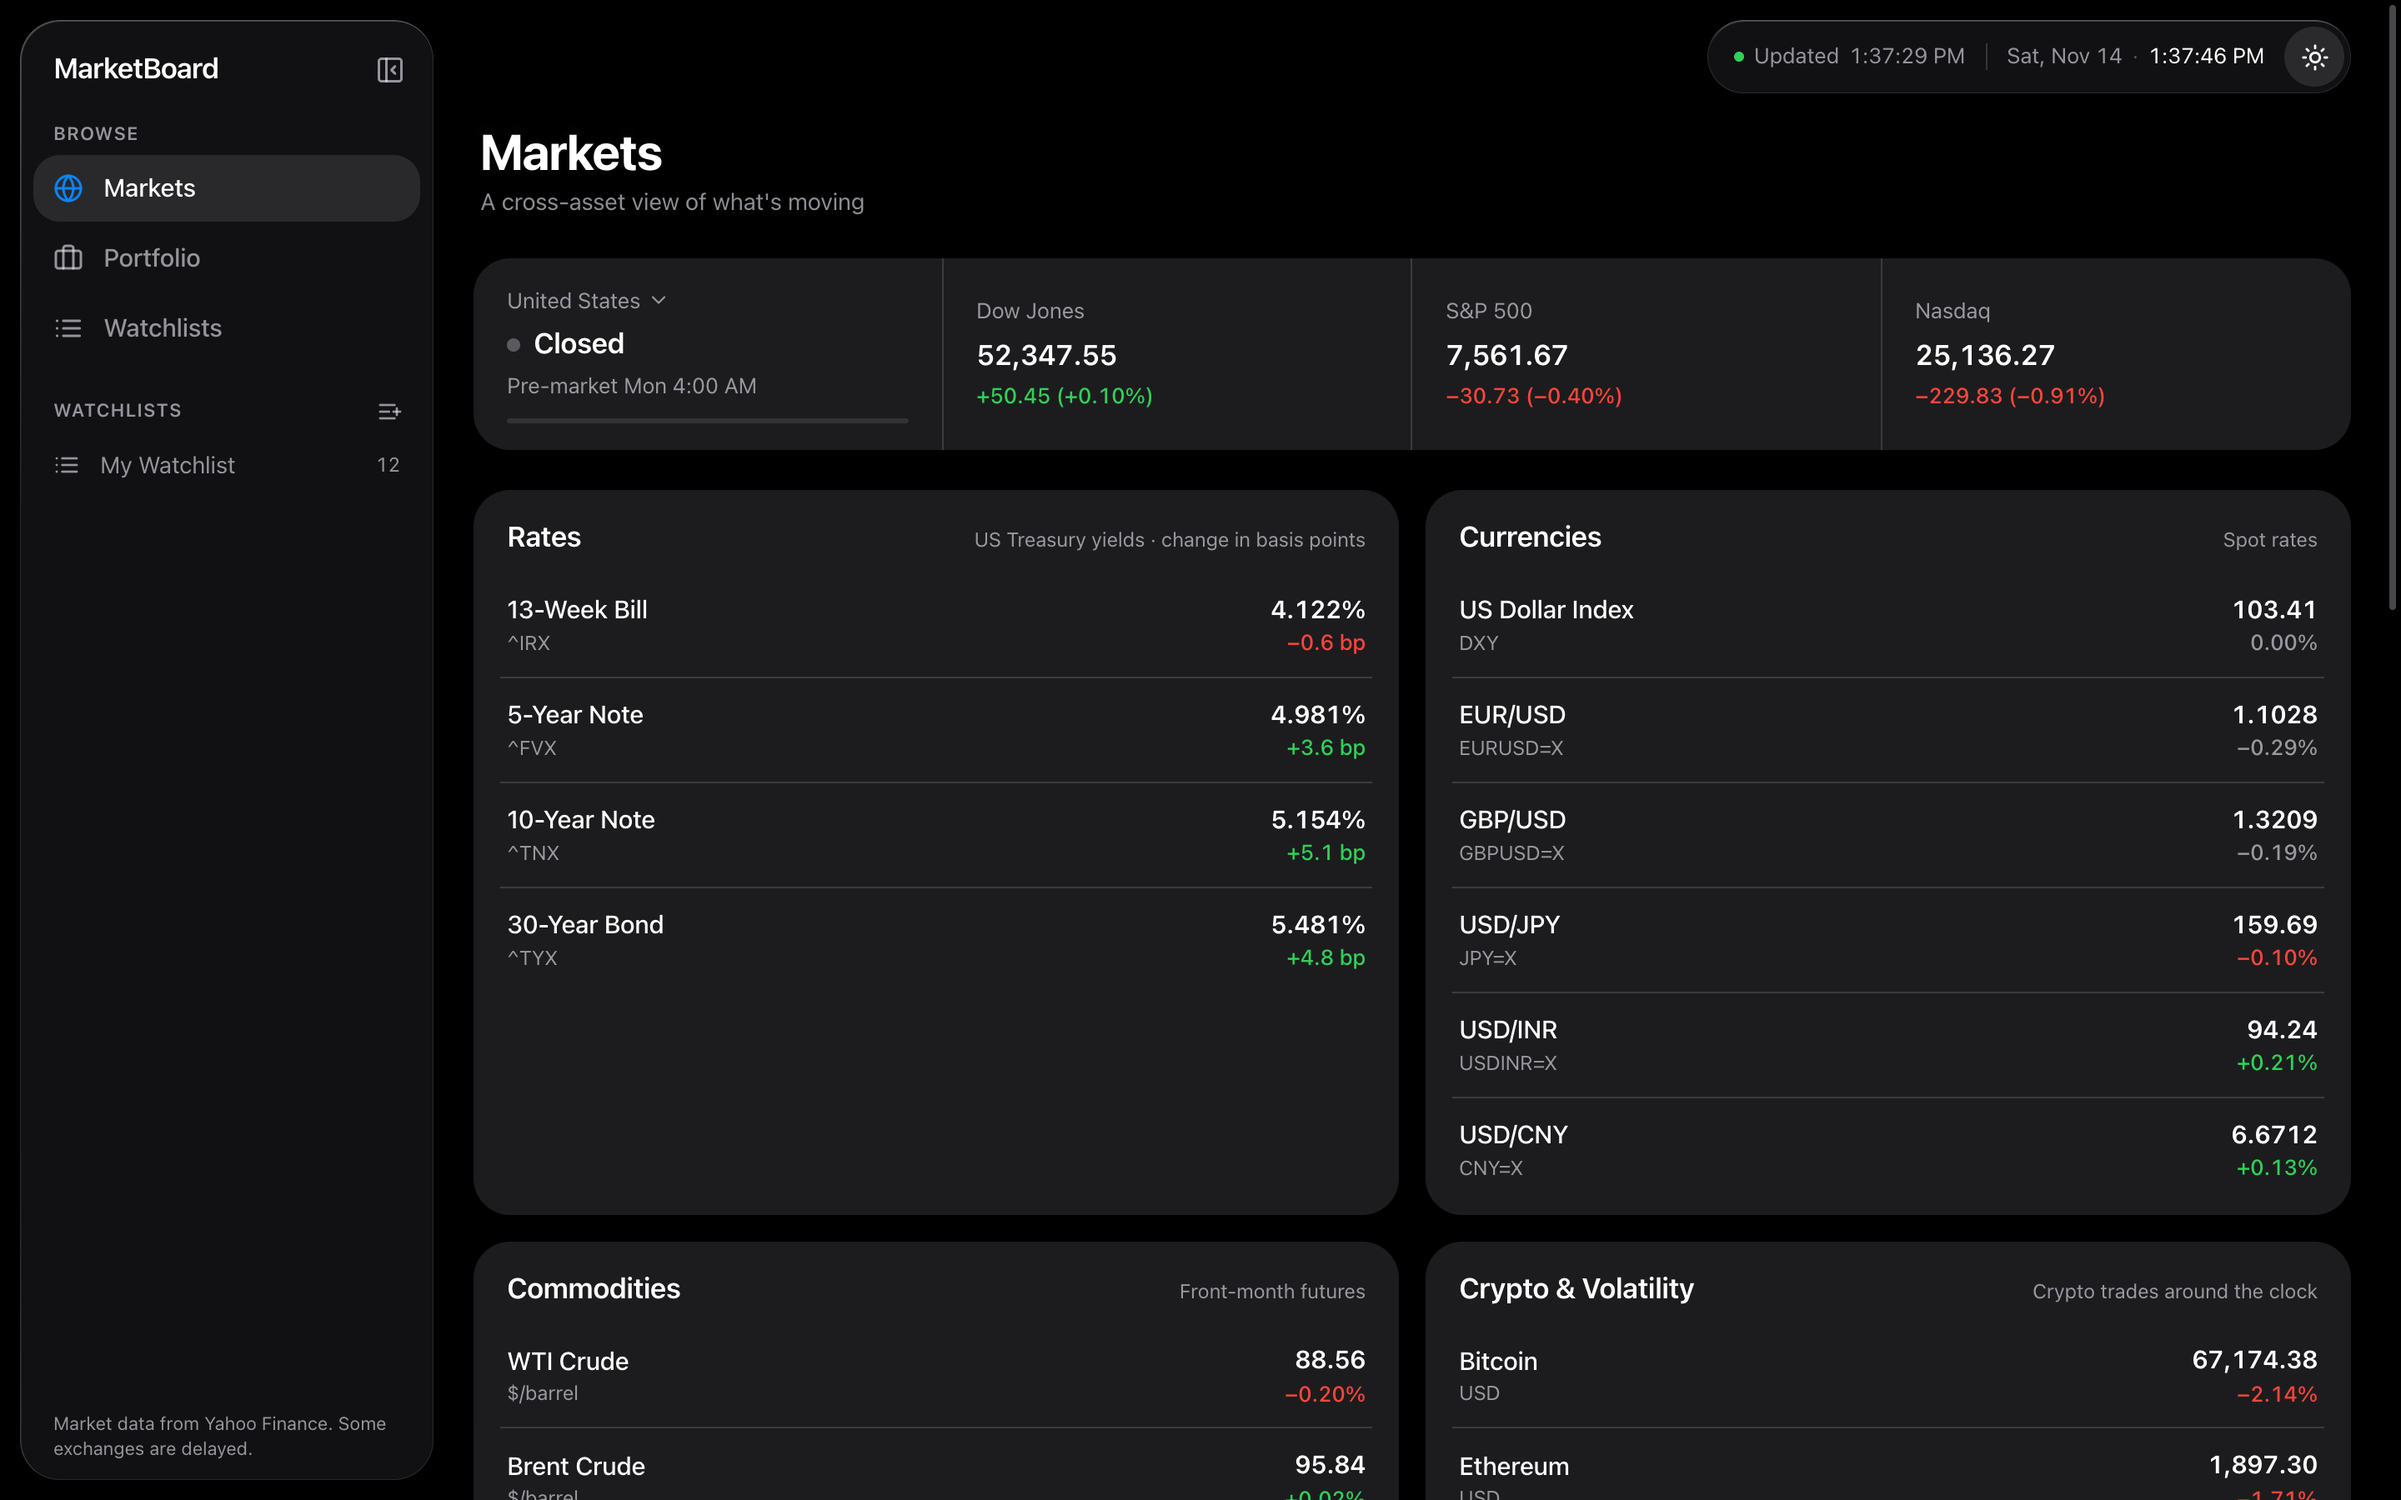
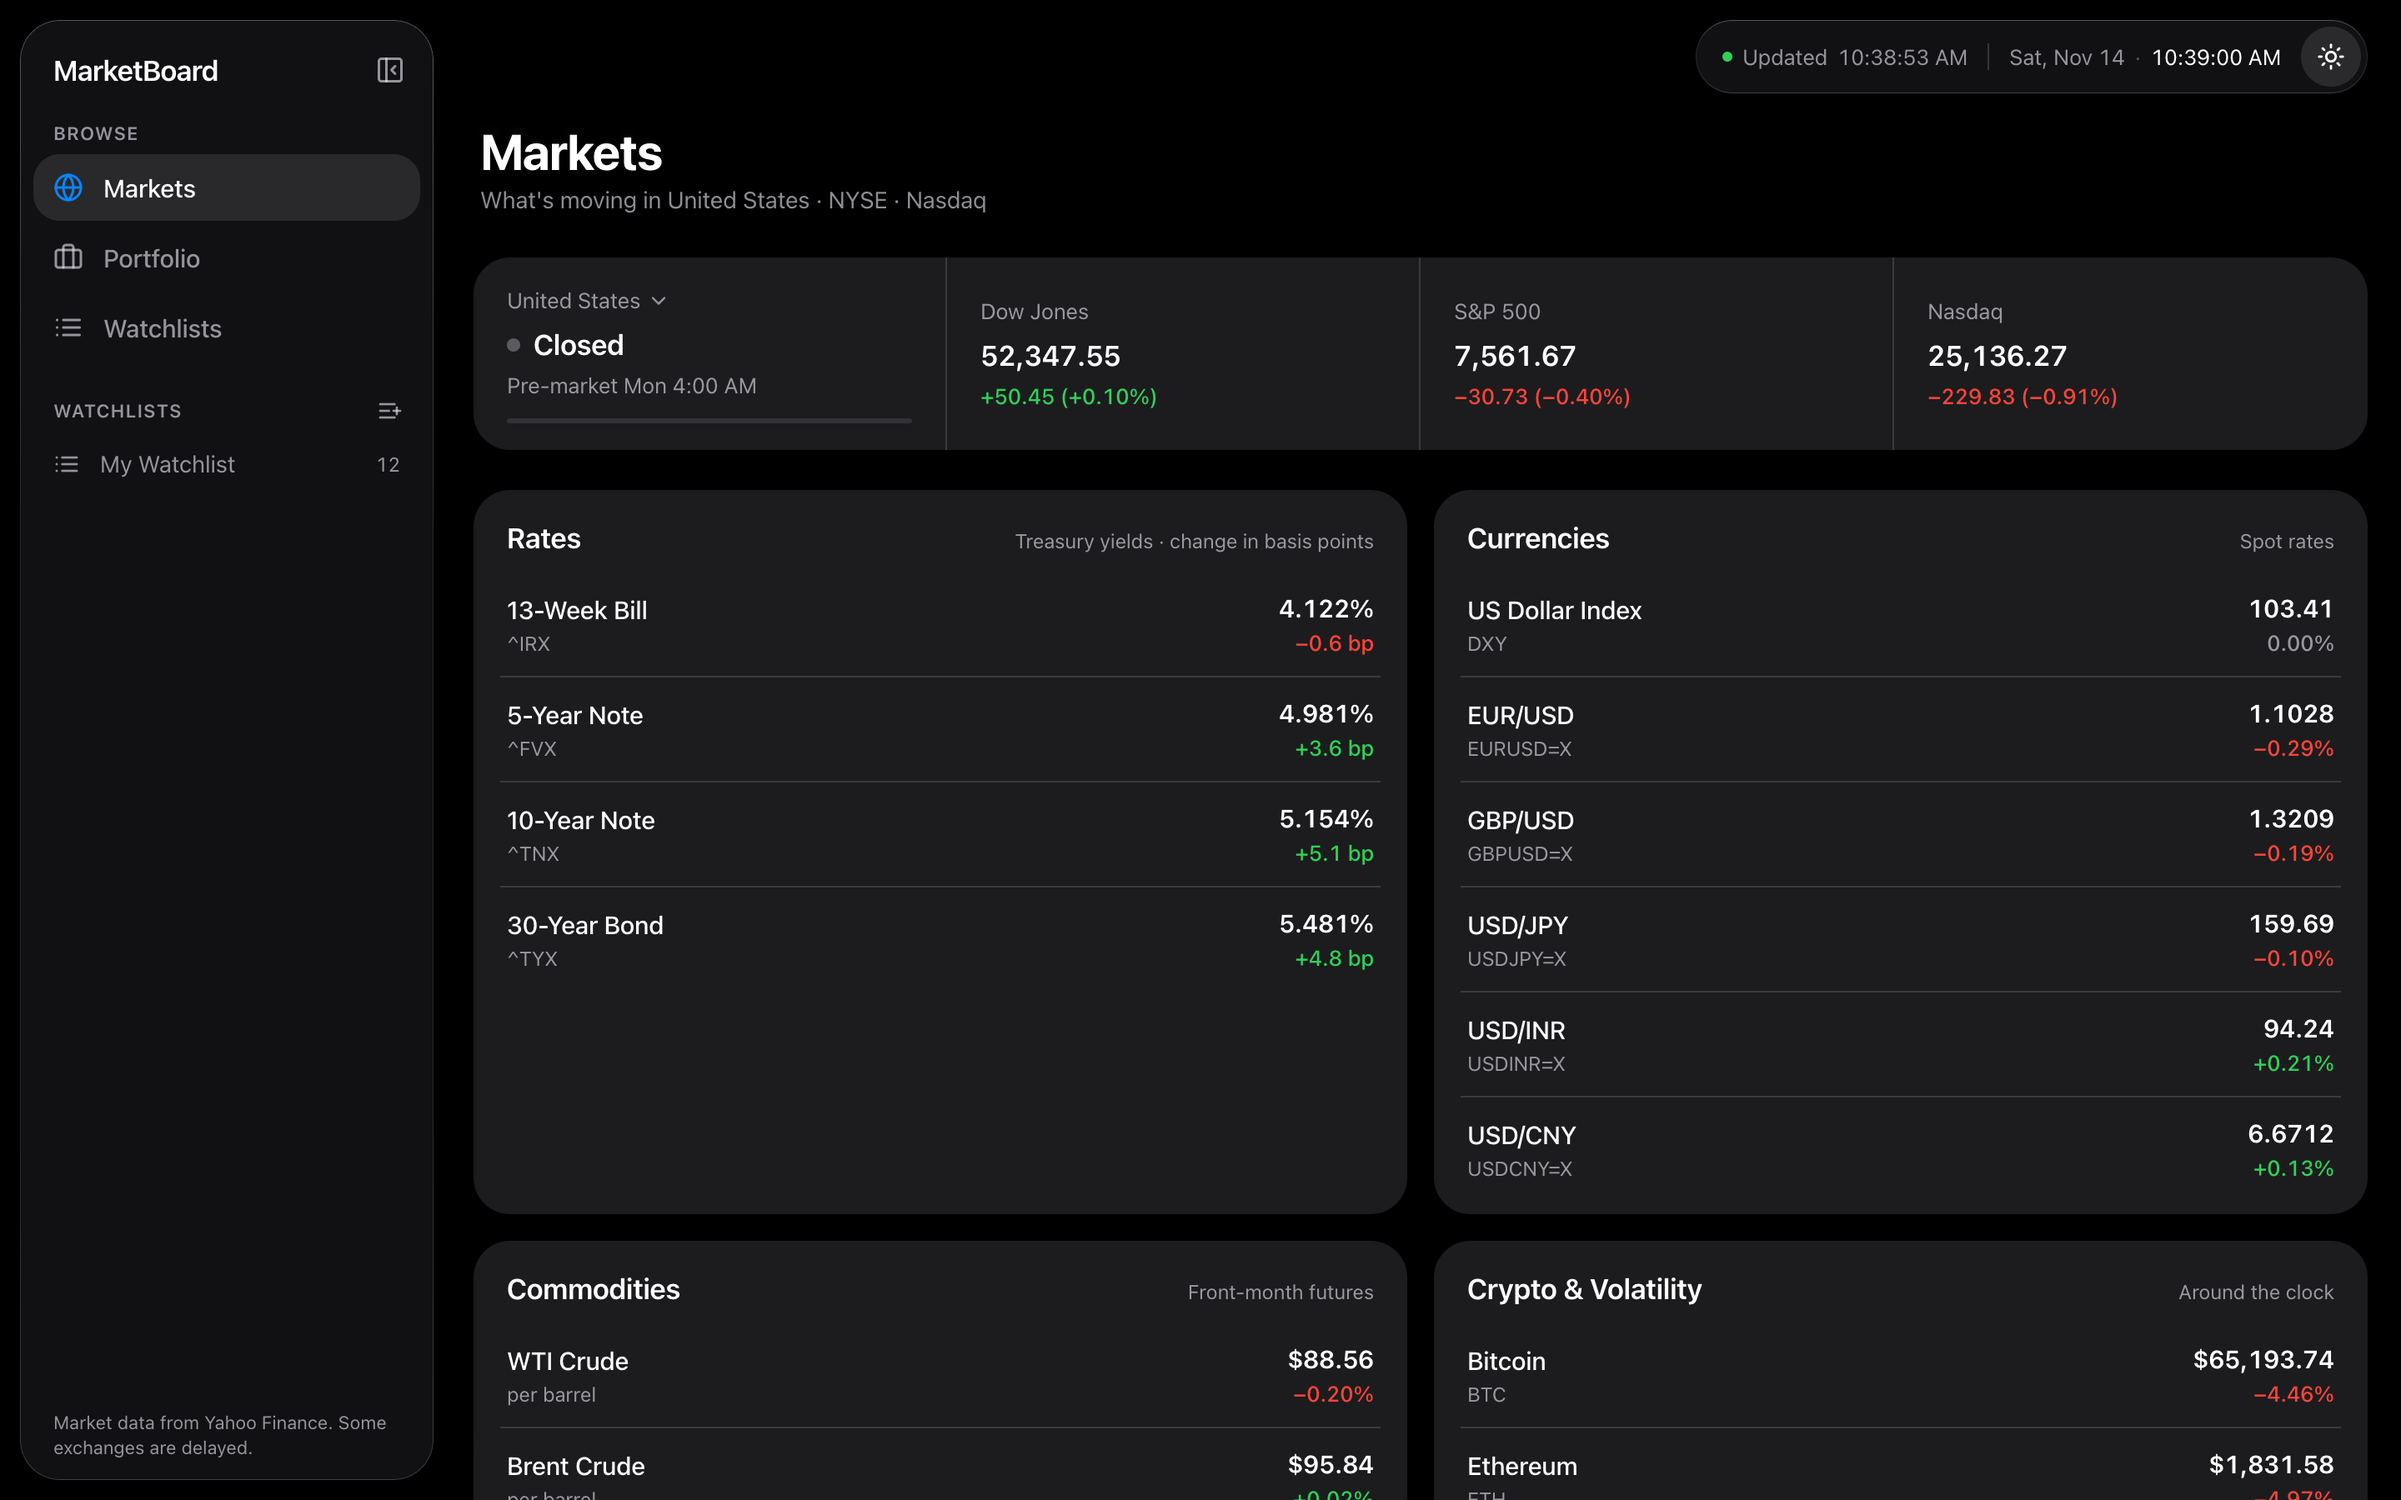
Update README and screenshots for country-aware Markets page
- README: Markets section reorganized around "the page follows the market
  you pick", with a bullet per card, a worked local-currency example and a
  collapsible per-market coverage table generated from market-profiles.ts
- README: "Adding or changing a market" guide; API route notes the
  50-symbol limit and FX alias handling
- Retake dark, mobile, index-picker and world-markets screenshots, which
  showed the old subtitle and commodity labels
- Add india.png: India in light mode, with rupee-priced commodities and
  crypto, India VIX and the Nifty sector heatmap

diff --git a/README.md b/README.md
@@ -2,7 +2,7 @@
 
 # MarketBoard
 
-A markets dashboard, portfolio tracker and watchlist app with an Apple-style Liquid Glass interface, built with Next.js. Quotes, charts, index levels, rates, currencies, commodities, movers and ticker search come from Yahoo Finance through a small server route, so no API key is needed.
+A markets dashboard, portfolio tracker and watchlist app with an Apple-style Liquid Glass interface, built with Next.js. Pick any of 16 markets worldwide and the Markets page shows that country's indexes, currency, commodities, sectors and movers. Quotes, charts, index levels, rates, currencies, commodities, movers and ticker search come from Yahoo Finance through a small server route, so no API key is needed.
 
 ![Markets page in dark mode: sidebar navigation, US market status, index strip, Treasury yields and currencies](docs/screenshots/dark.png)
 
@@ -13,18 +13,52 @@ A markets dashboard, portfolio tracker and watchlist app with an Apple-style Liq
 A full-height glass sidebar switches between three sections and lists your watchlists, the way Music lists playlists. Hide it to an icon rail with the sidebar button or **⌃⌘S**; your choice is remembered. On medium-width screens it shows as the icon rail, and on phones it becomes a floating tab bar. Every symbol anywhere in the app opens its own page.
 
 ### Markets
+Pick a market from the first tile and **the whole page follows it**. Switch to India and every card shows Indian data, priced in rupees. The choice is remembered and stays in sync across open tabs.
+
 - **Market status and indexes.** The first tile shows whether a market is open, in pre-market, after hours, on a lunch break, closed or on holiday, with a countdown and a progress bar for the session. Tap it to see 16 markets worldwide with their local time and status, and pick one.
   - **Holidays and early closes** are built in: "Holiday · Thanksgiving Day · Pre-market Fri 4:00 AM", "Early close in 1h 30m".
   - **Countdowns skip holidays,** so on the Friday before Martin Luther King Jr. Day the US shows "Pre-market Tue 4:00 AM".
   - **Indexes follow the market:** Dow Jones, S&P 500 and Nasdaq for the United States; Nifty 50 (NSE) and Sensex (BSE) for India; FTSE 100 for the UK; Nikkei 225 for Japan; and so on, 46 indexes in all. Tap **Add Index** to choose from that market's list and **×** to remove one, up to three. Each market remembers its own choice.
-- **The whole page follows the market you pick.** Switch to India and every card below the strip shows Indian data, in rupees. The choice is remembered and stays in sync across tabs.
-- **Cross-asset view.**
-  - **Rates or benchmarks:** US Treasury yields (13-week, 5, 10 and 30-year) with changes in basis points for the United States. Other markets show all of their main indexes, because Yahoo carries no other government bond yields.
-  - **Currencies:** the local currency against its main partners, quoted the way local desks write them (USD/INR, EUR/USD, GBP/EUR, AUD/USD, …), plus the dollar index in the US.
-  - **Commodities:** six front-month futures picked for each economy (soybeans, coffee and sugar for Brazil; platinum and palladium for South Africa; lumber for Canada; Dutch TTF gas for Europe), **priced in the local currency** with the US-dollar price underneath. The day's change includes the currency's own move.
-  - **Crypto and volatility:** Bitcoin and Ethereum in the local currency, plus the local volatility index where one exists (VIX, India VIX, ASX VIX).
-- **Sectors.** A heatmap tinted by the size of today's move, from each market's official sector indexes or sector funds: Select Sector SPDRs (US), Nifty sectoral indexes (India), S&P/ASX 200 sectors (Australia), TOPIX-17 ETFs (Japan), CSI sectors (China), Hang Seng sub-indexes (Hong Kong), B3 sector indexes (Brazil) and iShares TSX sector ETFs (Canada). Where Yahoo has none (UK, Germany, France, Switzerland, Saudi Arabia, South Africa, South Korea, Singapore), sector moves are cap-weighted from the market's largest listings.
-- **Movers.** Top gainers, top losers and most active. The US uses Yahoo's screeners. Other markets rank their 28–40 largest listings, with most active measured by value traded, and show how many are up and down.
+- **Rates or benchmarks.** US Treasury yields (13-week, 5, 10 and 30-year) with changes in basis points for the United States. Every other market shows all of its main indexes here instead, because Yahoo carries no other government bond yields.
+- **Currencies.** The local currency against its main trading partners, written the way local desks quote them: USD/INR in India, EUR/USD in Germany, GBP/EUR in the UK, AUD/USD in Australia. The US also shows the dollar index.
+- **Commodities.** Six front-month futures picked for each economy: soybeans, coffee and sugar for Brazil; platinum and palladium for South Africa; lumber for Canada; Dutch TTF gas for Europe.
+  - **Priced in the local currency,** with the original US-dollar (or euro) price underneath, e.g. gold at ₹366,245 with $3,886.30 / troy oz below it.
+  - **The day's change includes the currency's move,** so gold up 0.03% in dollars with the rupee down 0.21% shows +0.24% in India.
+- **Crypto and volatility.** Bitcoin and Ethereum in the local currency, plus the local volatility index where one exists (VIX, India VIX, ASX VIX).
+- **Sectors.** A heatmap tinted by the size of today's move.
+  - **Official sector indexes or funds** for 8 markets: Select Sector SPDRs (US), Nifty sectoral indexes (India), S&P/ASX 200 sectors (Australia), TOPIX-17 ETFs (Japan), CSI sectors (China), Hang Seng sub-indexes (Hong Kong), B3 sector indexes (Brazil) and iShares TSX sector ETFs (Canada). Tap a tile to open it.
+  - **Computed for the other 8** (UK, Germany, France, Switzerland, Saudi Arabia, South Africa, South Korea, Singapore), where Yahoo has none: each sector's move is weighted by market cap across that market's largest listings, and the tile says how many stocks it covers.
+- **Movers.** Top gainers, top losers and most active.
+  - **United States:** Yahoo's screeners, refreshed every minute.
+  - **Other markets:** Yahoo's screeners only cover US listings, so the app ranks each market's 28–40 largest listings instead. Most active is measured by value traded, because share counts aren't comparable across price levels, and the header shows how many are up and how many are down.
+
+<details>
+<summary><strong>What each market shows</strong></summary>
+
+| Market | Currency | First card | Commodities | Volatility | Sectors | Movers |
+| --- | --- | --- | --- | --- | --- | --- |
+| United States | USD | Treasury yields | WTI, Brent, natural gas, gold, silver, copper | VIX | Select Sector SPDRs (11) | Yahoo screeners |
+| Canada | CAD | 1 index | WTI, natural gas, gold, silver, copper, lumber | — | iShares TSX sector ETFs (8) | 34 large caps |
+| Brazil | BRL | 4 indexes | Brent, soybeans, coffee, sugar, corn, gold | — | B3 sector indexes (7) | 28 large caps |
+| United Kingdom | GBP | 2 indexes | Brent, Dutch TTF gas, gold, silver, copper, WTI | — | Computed | 35 large caps |
+| Germany | EUR | 4 indexes | Brent, Dutch TTF gas, gold, copper, aluminum, silver | — | Computed | 35 large caps |
+| France | EUR | 3 indexes | Brent, Dutch TTF gas, gold, wheat, copper, silver | — | Computed | 34 large caps |
+| Switzerland | CHF | 2 indexes | Gold, silver, platinum, Brent, Dutch TTF gas, copper | — | Computed | 31 large caps |
+| Saudi Arabia | SAR | 1 index | Brent, WTI, natural gas, gold, aluminum, copper | — | Computed | 31 large caps |
+| South Africa | ZAR | 2 indexes | Gold, platinum, palladium, Brent, copper, silver | — | Computed | 35 large caps |
+| India | INR | 7 indexes | Gold, silver, Brent, WTI, natural gas, copper | India VIX | Nifty sectoral indexes (12) | 40 large caps |
+| China | CNY | 3 indexes | Copper, gold, soybeans, Brent, aluminum, silver | — | CSI sector indexes (10) | 34 large caps |
+| Hong Kong | HKD | 2 indexes | Gold, Brent, copper, silver, WTI, natural gas | — | Hang Seng sub-indexes (4) | 36 large caps |
+| Japan | JPY | 1 index | Brent, WTI, natural gas, gold, copper, platinum | — | TOPIX-17 sector ETFs (17) | 40 large caps |
+| South Korea | KRW | 3 indexes | Brent, WTI, copper, gold, natural gas, aluminum | — | Computed | 37 large caps |
+| Singapore | SGD | 1 index | Brent, WTI, gold, natural gas, copper, silver | — | Computed | 29 large caps |
+| Australia | AUD | 3 indexes | Gold, copper, Brent, natural gas, wheat, silver | ASX VIX | S&P/ASX 200 sectors (11) | 39 large caps |
+
+</details>
+
+![Markets page in light mode with India selected: commodities and crypto priced in rupees with US-dollar prices beneath, India VIX, and the Nifty sector heatmap](docs/screenshots/india.png)
+
+<sub>India selected: gold, oil and Bitcoin in rupees with the dollar price underneath, and the NSE's own sector indexes.</sub>
 
 | Choose indexes | World market hours |
 | --- | --- |
@@ -152,11 +186,26 @@ The front end talks only to `GET /api/stocks`:
 
 | Query | Returns |
 | --- | --- |
-| `?action=quotes&symbols=AAPL,^GSPC` | Quotes, fundamentals, session state and extended-hours prices. `stale: true` means Yahoo is unreachable and these are the last good values |
+| `?action=quotes&symbols=AAPL,^GSPC` | Quotes, fundamentals, session state and extended-hours prices, up to 50 symbols per request. `stale: true` means Yahoo is unreachable and these are the last good values. Yahoo answers some dollar pairs under a different alias (`JPY=X` for `USDJPY=X`); the route always returns them under the symbol you asked for |
 | `?action=chart&symbol=AAPL&timeframe=1M` | Price and volume history for `1D`, `1W`, `1M`, `3M`, `1Y` or `ALL`, with the exchange's time zone |
 | `?action=movers` | Top 10 US gainers, losers and most active. Cached for a minute |
 | `?action=profiles&symbols=AAPL,SPY` | Sector, industry, country and instrument type. Cached for a day |
 | `?action=search&query=netflix` | Up to five matching stocks or ETFs |
+
+## Adding or changing a market
+
+Everything the Markets page shows for a market lives in its entry in `lib/market-profiles.ts`; the page itself has no per-country code.
+
+1. **Exchange hours and status:** add the market to `MARKETS` in `lib/markets.ts` (and its holiday rules to `lib/holidays.ts` if they are predictable).
+2. **Indexes:** add its indexes to `INDEX_CATALOG` in `lib/indices.ts`. The first three are the defaults in the strip.
+3. **Profile:** add an entry to `PROFILES` with:
+   - `currency`: the ISO code everything is priced in
+   - `fx`: counter currencies; pairs and their direction are built for you
+   - `commodities`: six keys from `COMMODITIES`
+   - `volatility` (optional): the local volatility index
+   - `sectors` (optional): sector indexes or ETFs. Leave it out and sectors are computed from `largeCaps`, which then need a sector on each entry (use `tag()`)
+   - `largeCaps`: the movers universe, as tickers plus the Yahoo suffix (`.NS`, `.L`, `.T`, …). Keep it to 50 or fewer
+4. **Check every symbol** returns a live, current quote from `/api/stocks?action=quotes&symbols=…` before committing. Yahoo renames and drops tickers, and a missing one shows as "—" rather than an error.
 
 ## Project structure
 
